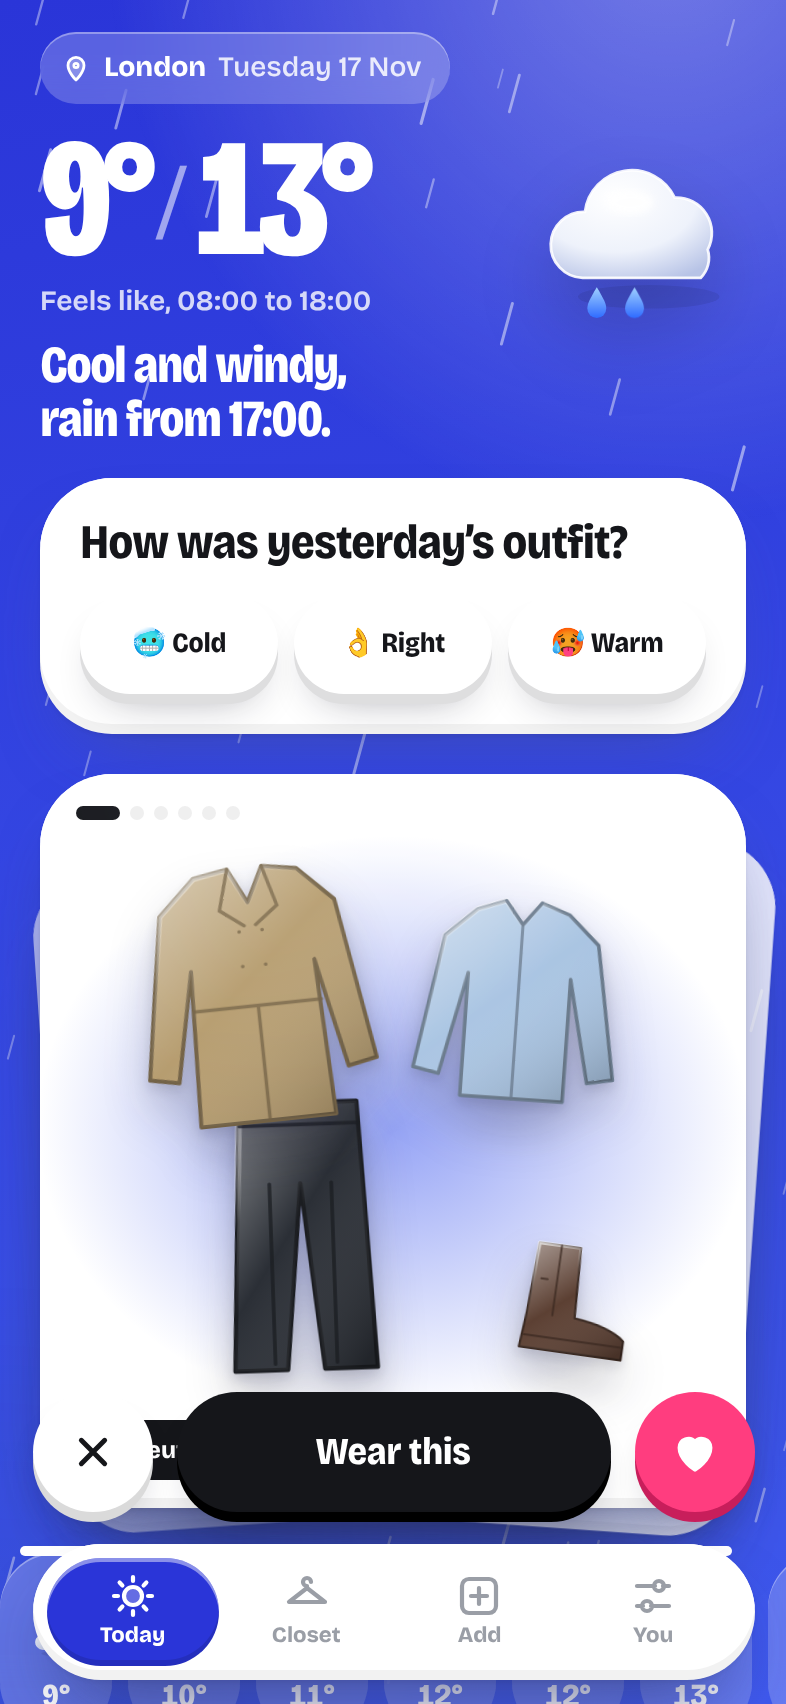
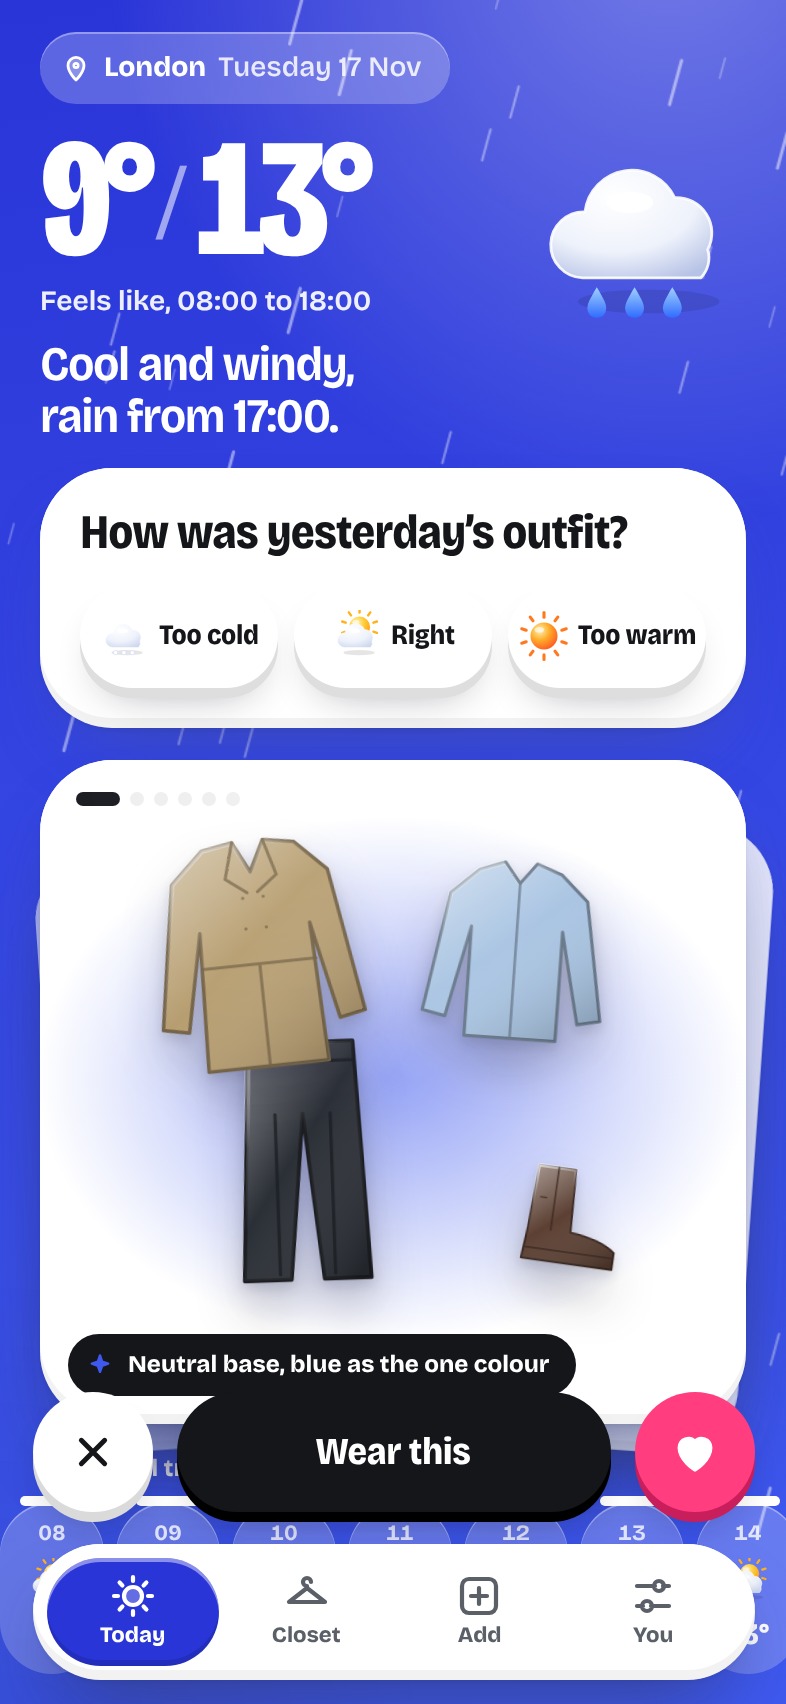
Visual audit fixes: AA contrast, hour capsules clear of the dock
- Inactive tab labels 2.7:1 -> 6.4:1; secondary text on moods >= 4.5:1
- Shorter card and compact hour capsules so nothing hides behind the dock;
  coat legend above the capsules; mood fade behind the dock
- Verdict lighter than the temperature (one headline, not two)
- Check-in and trial banner use the app's own clay icons instead of emoji

Claude-Session: https://claude.ai/code/session_01Edbnh1EEFhvaKHKpkKxv3v

diff --git a/src/theme/app.css b/src/theme/app.css
@@ -119,7 +119,7 @@ img { max-width: 100%; display: block; }
   background: var(--m1); box-shadow: inset 0 2px 0 rgb(255 255 255 / 0.45), inset 0 -3px 0 rgb(0 0 0 / 0.12);
   transform: translateX(calc(var(--i) * 100%)); transition: transform 520ms var(--bounce);
 }
-.tab { position: relative; z-index: 1; border: 0; background: transparent; border-radius: var(--r-pill); cursor: pointer; color: var(--ink-3); display: flex; flex-direction: column; align-items: center; justify-content: center; gap: 0; font-size: 11px; font-weight: 760; transition: color 200ms; }
+.tab { position: relative; z-index: 1; border: 0; background: transparent; border-radius: var(--r-pill); cursor: pointer; color: var(--ink-2); display: flex; flex-direction: column; align-items: center; justify-content: center; gap: 0; font-size: 11px; font-weight: 760; transition: color 200ms; }
 .tab[aria-current='page'] { color: var(--on); }
 .tab[aria-current='page'] svg { animation: hop 520ms var(--spring); }
 @keyframes hop { 0% { transform: translateY(0) scale(1); } 35% { transform: translateY(-5px) scale(1.15); } 100% { transform: none; } }
@@ -147,7 +147,7 @@ body:has(.actions-dock) .toast-region { bottom: calc(env(safe-area-inset-bottom)
   content: ''; position: absolute; inset: 0;
   background: radial-gradient(120% 60% at 85% -5%, rgb(255 255 255 / 0.35), transparent 60%), radial-gradient(80% 50% at 0% 110%, rgb(0 0 0 / 0.12), transparent 70%);
 }
-.today { gap: var(--s4); padding-top: calc(env(safe-area-inset-top) + var(--s4)); color: var(--on); }
+.today { gap: var(--s3); padding-top: calc(env(safe-area-inset-top) + var(--s4)); color: var(--on); }
 .today.has-dock { padding-bottom: calc(env(safe-area-inset-bottom) + var(--tabbar-h) + var(--tabbar-gap) * 2 + 96px); }
 
 .place-pill { align-self: flex-start; display: inline-flex; align-items: center; gap: 6px; padding: 8px 14px 8px 10px; border-radius: var(--r-pill); background: rgb(255 255 255 / 0.24); font-size: var(--t-small); font-weight: 760; box-shadow: inset 0 1px 0 rgb(255 255 255 / 0.35); }
@@ -156,31 +156,31 @@ body:has(.actions-dock) .toast-region { bottom: calc(env(safe-area-inset-bottom)
 .hero-temp { display: flex; align-items: center; gap: 4px; }
 .hero-temp .sep { font-size: 3rem; font-weight: 300; line-height: 1; opacity: 0.55; }
 .hero-feels { font-size: var(--t-small); font-weight: 650; color: var(--on-2); margin-top: 6px; }
-.verdict { margin-top: var(--s2); font-size: 1.625rem; line-height: 1.02; font-weight: 800; font-stretch: 80%; letter-spacing: -0.03em; text-wrap: balance; max-width: 16ch; }
+.verdict { margin-top: var(--s2); font-size: 1.5rem; line-height: 1.08; font-weight: 650; font-stretch: 92%; letter-spacing: -0.03em; text-wrap: balance; max-width: 16ch; }
 .glyph { position: relative; display: block; width: 118px; height: 118px; margin: -10px -8px -10px 0; flex: none; }
 .glyph .wg { position: absolute; inset: 0; width: 100%; height: 100%; }
 
 /* Hour pills: the day, one capsule per hour */
-.hours { display: flex; gap: 8px; overflow-x: auto; margin: 0 calc(-1 * var(--pad)); padding: 6px var(--pad) 10px; scrollbar-width: none; scroll-snap-type: x proximity; }
+.hours { display: flex; gap: 6px; overflow-x: auto; margin: 0 calc(-1 * var(--pad)); padding: 6px var(--pad) 4px; scrollbar-width: none; scroll-snap-type: x proximity; }
 .hours::-webkit-scrollbar { display: none; }
 .hour {
-  flex: none; width: 56px; padding: 10px 0 10px; border-radius: var(--r-pill); scroll-snap-align: start; position: relative;
+  flex: none; width: 52px; padding: 8px 0 8px; border-radius: var(--r-pill); scroll-snap-align: start; position: relative;
   display: flex; flex-direction: column; align-items: center; gap: 4px; font-variant-numeric: tabular-nums;
   background: rgb(255 255 255 / 0.22);
   box-shadow: inset 0 1px 0 rgb(255 255 255 / 0.35); animation: rise 420ms var(--ease) both; animation-delay: calc(var(--i) * 30ms);
 }
 .hour small { font-size: 11px; font-weight: 700; opacity: 0.8; }
-.hour strong { font-size: 1rem; font-weight: 800; font-stretch: 85%; }
-.hour .mini { width: 26px; height: 26px; margin: 0; }
+.hour strong { font-size: 0.9375rem; font-weight: 800; font-stretch: 85%; }
+.hour .mini { width: 24px; height: 24px; margin: 0; }
 .hour.is-now { background: var(--paper); color: var(--ink); box-shadow: 0 4px 0 rgb(0 0 0 / 0.12); }
 .hour.is-layer::before { /* the coat is on during this hour */
   content: ''; position: absolute; left: 10px; right: 10px; top: -3px; height: 5px; border-radius: 3px; background: var(--on);
 }
-.hours-key { display: flex; gap: var(--s4); font-size: var(--t-micro); font-weight: 700; color: var(--on-2); margin-top: -10px; }
+.hours-key { display: flex; gap: var(--s4); font-size: var(--t-micro); font-weight: 750; color: var(--on); margin: 2px 0 -10px; }
 .hours-key i { display: inline-block; width: 16px; height: 5px; border-radius: 3px; background: var(--on); margin-right: 6px; vertical-align: middle; }
 
 /* The deck */
-.deck { position: relative; aspect-ratio: 1 / 1.04; outline: none; perspective: 900px; margin-top: var(--s1); }
+.deck { position: relative; aspect-ratio: 1 / 0.94; outline: none; perspective: 900px; margin-top: var(--s1); }
 .look {
   position: absolute; inset: 0; border-radius: var(--r-xl); overflow: hidden; color: var(--ink);
   background: var(--paper); box-shadow: var(--clay), 0 30px 60px -30px rgb(0 0 0 / 0.45);
@@ -204,7 +204,7 @@ body:has(.actions-dock) .toast-region { bottom: calc(env(safe-area-inset-bottom)
 .look-count i.on { width: 22px; border-radius: 4px; background: var(--ink); }
 .look-kept { position: absolute; top: 12px; right: 14px; z-index: 5; font-size: var(--t-micro); font-weight: 800; padding: 5px 11px; border-radius: var(--r-pill); background: var(--m1); color: var(--on); box-shadow: 0 3px 0 color-mix(in srgb, var(--m1) 60%, #000); }
 
-.compose { position: absolute; inset: 40px 14px 60px; z-index: 2; }
+.compose { position: absolute; inset: 36px 16px 58px; z-index: 2; }
 .look.is-top .compose { animation: float 5s ease-in-out infinite alternate 800ms; will-change: transform; }
 @keyframes float { from { transform: translateY(0); } to { transform: translateY(-6px); } }
 .piece {
@@ -240,7 +240,7 @@ body:has(.actions-dock) .toast-region { bottom: calc(env(safe-area-inset-bottom)
 .look-end { position: absolute; inset: 0; border-radius: var(--r-xl); display: grid; place-content: center; justify-items: center; gap: var(--s3); text-align: center; padding: var(--s6); background: var(--paper); color: var(--ink); box-shadow: var(--clay); }
 .look-end .glyph { width: 96px; height: 96px; margin: 0 auto; }
 
-.why-weather { font-size: var(--t-small); font-weight: 560; color: var(--on-2); max-width: 60ch; }
+.why-weather { font-size: var(--t-small); font-weight: 600; color: var(--on); max-width: 60ch; margin-top: var(--s2); }
 .actions-dock {
   position: fixed; z-index: 19; left: 50%; transform: translateX(-50%); width: min(440px, calc(100% - 2 * var(--s4)));
   bottom: calc(env(safe-area-inset-bottom) + var(--tabbar-h) + var(--tabbar-gap) * 2 + 4px);
@@ -254,7 +254,8 @@ body:has(.actions-dock) .toast-region { bottom: calc(env(safe-area-inset-bottom)
 .banner { display: flex; align-items: center; gap: var(--s3); justify-content: space-between; padding: var(--s3) var(--s3) var(--s3) var(--s5); border-radius: var(--r-pill); background: var(--ink); color: var(--paper); font-size: var(--t-small); font-weight: 700; }
 .banner .btn { min-height: 42px; padding: 0 var(--s4); font-size: var(--t-small); box-shadow: none; }
 .feel-row { display: grid; grid-template-columns: repeat(3, 1fr); gap: var(--s2); }
-.feel-row .btn { padding: 0 var(--s2); min-height: 50px; font-size: var(--t-small); }
+.feel-row .btn { padding: 0 var(--s2); min-height: 52px; font-size: var(--t-small); gap: 4px; }
+.feel-row .glyph { width: 26px; height: 26px; margin: 0; }
 .attribution { font-size: var(--t-micro); font-weight: 600; color: var(--on-2); text-align: center; }
 .today .card { color: var(--ink); }
 .empty-state { display: flex; flex-direction: column; gap: var(--s3); padding: var(--s6) 0; }
@@ -273,7 +274,7 @@ body:has(.actions-dock) .toast-region { bottom: calc(env(safe-area-inset-bottom)
 .tile.is-away .tile-art .garment { opacity: 0.35; filter: grayscale(0.8); }
 .tile-flag { position: absolute; left: 8px; bottom: 8px; font-size: 10.5px; font-weight: 800; padding: 3px 8px; border-radius: var(--r-pill); background: var(--ink); color: var(--paper); }
 .wall-section { font-size: var(--t-title); font-weight: 800; font-stretch: 82%; letter-spacing: -0.02em; display: flex; justify-content: space-between; align-items: baseline; margin-top: var(--s2); }
-.wall-section span { font-size: var(--t-small); color: var(--ink-3); font-weight: 700; }
+.wall-section span { font-size: var(--t-small); color: var(--ink-2); font-weight: 700; }
 
 .detail-hero { margin: calc(-1 * (env(safe-area-inset-top) + var(--s6))) calc(-1 * var(--pad)) 0; padding: calc(env(safe-area-inset-top) + var(--s3)) var(--pad) var(--s7); display: flex; flex-direction: column; gap: var(--s3); position: relative; overflow: hidden; border-radius: 0 0 var(--r-xl) var(--r-xl); background: linear-gradient(170deg, color-mix(in srgb, var(--tint) 55%, #fff), color-mix(in srgb, var(--tint) 25%, #fff)); color: #15161a; }
 @media (prefers-color-scheme: dark) { .detail-hero { background: linear-gradient(170deg, color-mix(in srgb, var(--tint) 45%, #111), color-mix(in srgb, var(--tint) 20%, #111)); color: #fff; } }
@@ -440,3 +441,10 @@ body:has(.actions-dock) .toast-region { bottom: calc(env(safe-area-inset-bottom)
   .btn.primary::after { display: none; }
 }
 @media (min-width: 560px) { .app { box-shadow: 0 0 0 1px var(--line); } }
+
+/* Content scrolling under the dock fades into the sky instead of colliding with the buttons */
+.today.has-dock::after {
+  content: ''; position: fixed; left: 0; right: 0; bottom: 0; z-index: 18; pointer-events: none;
+  height: calc(env(safe-area-inset-bottom) + var(--tabbar-h) + var(--tabbar-gap) * 2 + 110px);
+  background: linear-gradient(to bottom, transparent, var(--m2) 45%);
+}

diff --git a/src/screens/Today.tsx b/src/screens/Today.tsx
@@ -141,9 +141,9 @@ export function Today() {
         <section className="card" aria-labelledby="checkin-title">
           <h2 id="checkin-title" className="t-title">How was yesterday’s outfit?</h2>
           <div className="feel-row">
-            <button className="btn secondary" onClick={() => d({ type: 'checkIn', feel: 'cold' })}>🥶 Cold</button>
-            <button className="btn secondary" onClick={() => d({ type: 'checkIn', feel: 'right' })}>👌 Right</button>
-            <button className="btn secondary" onClick={() => d({ type: 'checkIn', feel: 'warm' })}>🥵 Warm</button>
+            <button className="btn secondary" onClick={() => d({ type: 'checkIn', feel: 'cold' })}><WeatherGlyph kind="snow" still /> Too cold</button>
+            <button className="btn secondary" onClick={() => d({ type: 'checkIn', feel: 'right' })}><WeatherGlyph kind="partly" still /> Right</button>
+            <button className="btn secondary" onClick={() => d({ type: 'checkIn', feel: 'warm' })}><WeatherGlyph kind="heat" still /> Too warm</button>
           </div>
         </section>
       )}
@@ -205,7 +205,7 @@ export function Today() {
 
       {day !== null && day >= 5 && day <= 7 && !s.subscribed && (
         <div className="banner" role="note">
-          <span>✨ {8 - day} {8 - day === 1 ? 'day' : 'days'} left of your free week</span>
+          <span><Icon name="sparkle" size={14} fill /> {8 - day} {8 - day === 1 ? 'day' : 'days'} left of your free week</span>
           <button className="btn" onClick={() => setPlans(true)}>See plans</button>
         </div>
       )}
@@ -231,6 +231,7 @@ export function Today() {
 function Hours({ s, layer, nowHour, deg, outer }: { s: WindowSummary; layer: [number, number] | null; nowHour: number | null; deg: (c: number) => string; outer?: string }) {
   return (
     <>
+      {outer && layer && <p className="hours-key"><span><i />{outer} on, {hh(layer[0])}–{hh(layer[1] + 1)}</span></p>}
       <div className="hours" role="list" aria-label="Hour by hour">
         {s.hours.map((h, i) => {
           const on = !!layer && h.hour >= layer[0] && h.hour <= layer[1];
@@ -249,7 +250,6 @@ function Hours({ s, layer, nowHour, deg, outer }: { s: WindowSummary; layer: [nu
           );
         })}
       </div>
-      {outer && layer && <p className="hours-key"><span><i />{outer} on</span></p>}
     </>
   );
 }

diff --git a/src/theme/tokens.css b/src/theme/tokens.css
@@ -50,7 +50,7 @@
 
 .app {
   --m1: var(--m1-base); --m2: var(--m2-base); --on: var(--on-base);
-  --on-2: color-mix(in srgb, var(--on) 80%, transparent);
+  --on-2: color-mix(in srgb, var(--on) 92%, transparent);
   --canvas: color-mix(in srgb, var(--m2) 26%, #f7f6f3);
   --accent: color-mix(in srgb, var(--m1) 82%, #000);
   --shadow: color-mix(in srgb, var(--glow) 40%, rgb(20 20 40 / 0.6));
